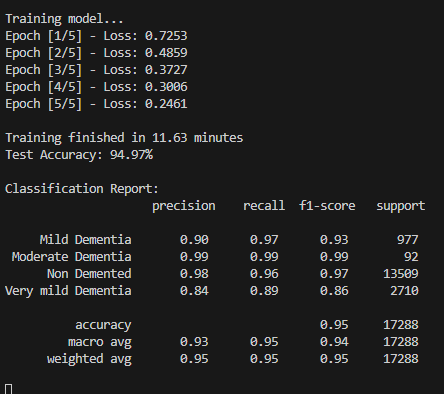
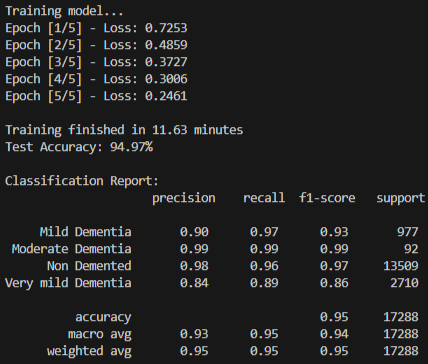
reorganized file structure 2

diff --git a/readme.md b/readme.md
@@ -1,24 +1,34 @@
-**Using a Convolutional Neural Network to predict stages of Alzheimer's / Dementia through MRI imagery**
+**Predicting the Onset of Dementia Using Neural Networks: A Deep Learning Approach to Neuroimaging Analysis**
 
-This repo consists of modifications to the CIFAR-10 CNN / Datasets to support MRI scanning and classification. 
-Additionally, consists of several experiments, example classifications, test accuracy & runtime. 
+Research Report: (insert link)
+Abstract: (insert)
+
+
+# This repo features multiple CNN structures preprocessed and trained to classify multiple indications of Alzheimer's Disease / Dementia.
+
+MRI: Classifies multiple stages of Dementia into ['Non Demented', 'Very Mild', 'Mild', 'Moderate'].
+Biomarkers: Classifies patient records into ['No Dementia', 'Dementia'] based on corresponding preexisting health conditions.
+Speech: (insert)
+
 
 Download Operation:
-* git clone [email redacted]:abrizu/480-NN-Project-MRI.git
-* python -m venv .venv
-* .venv/scripts/activate
-* pip freeze > requirements.txt
+```
+git clone [email redacted]:abrizu/480-NN-Project-MRI.git
+python -m venv .venv
+.venv/scripts/activate
+pip freeze > requirements.txt
+```
 
-Data can be downloaded 2 ways:
+# Due to size, data for both models must be downloaded separately.
 
 External Download - 
-Download the MRI Dataset from https://www.kaggle.com/datasets/ninadaithal/imagesoasis
-Extract the dataset into the project root folder.
+Download the MRI Dataset from https://www.kaggle.com/datasets/ninadaithal/imagesoasis.
+Download the Biomarkers Dataset from https://www.kaggle.com/datasets/snmahsa/comprehensive-health-and-brain-imaging-dataset.
+Download the Speech Dataset from (insert link).
 
-Auto Download (Using API token) -
-Work In Progress
-
-* 'Data' folder is excluded from project due to size.
+Extract the MRI Dataset into ./MRIData folder. 
+Extract the Biomarker Dataset into ./BMData folder.
+Extract the Speech Dataset into ./SPData folder.
 
 To Execute:
-py mri.py
+py functions/(mri.py, biomarkers.py, (insert)) 